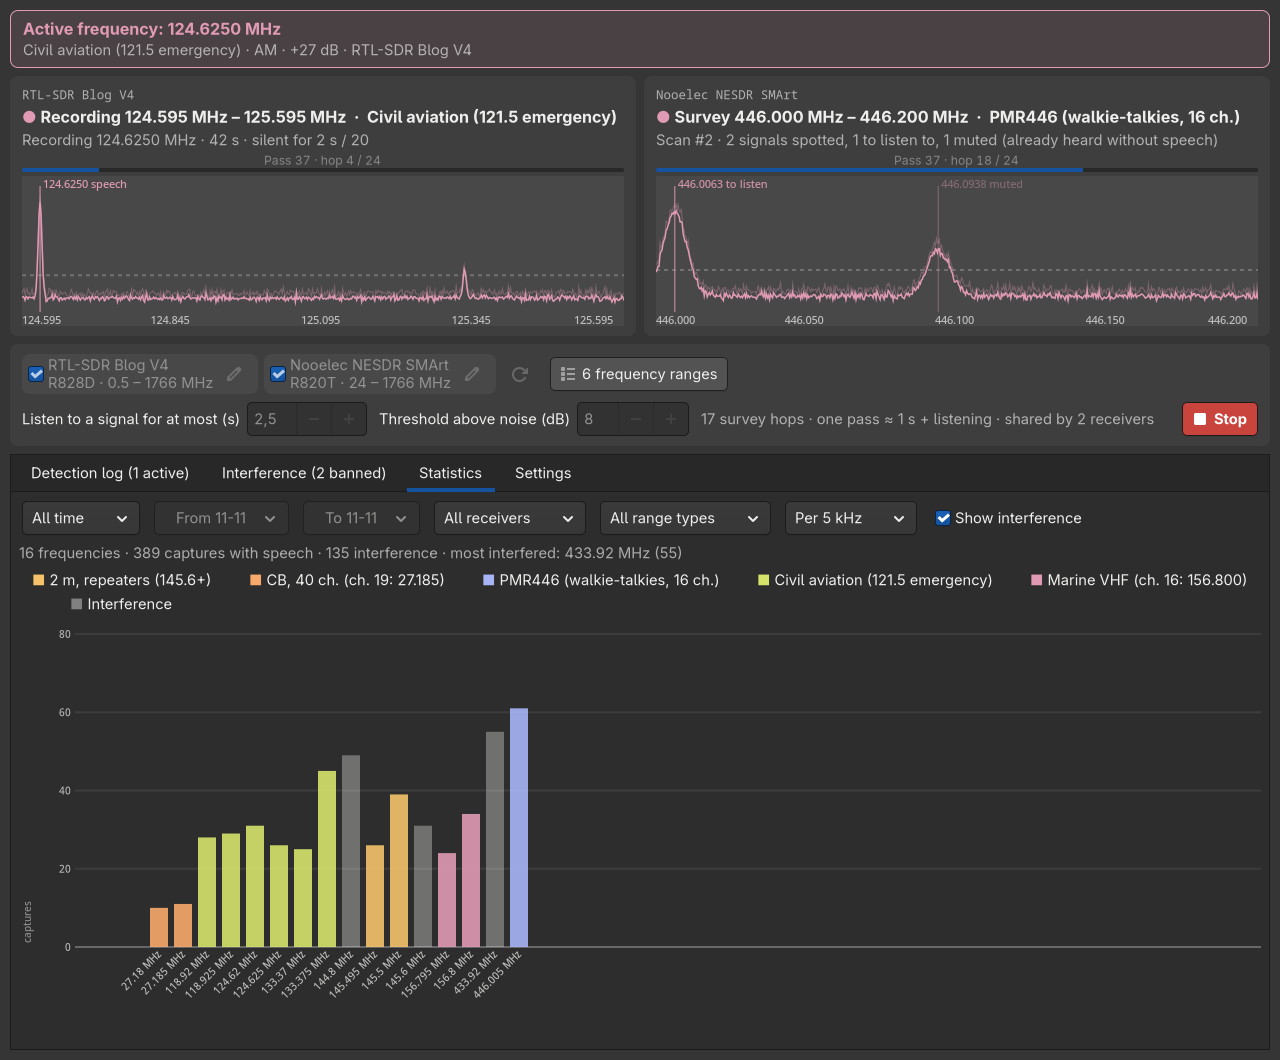
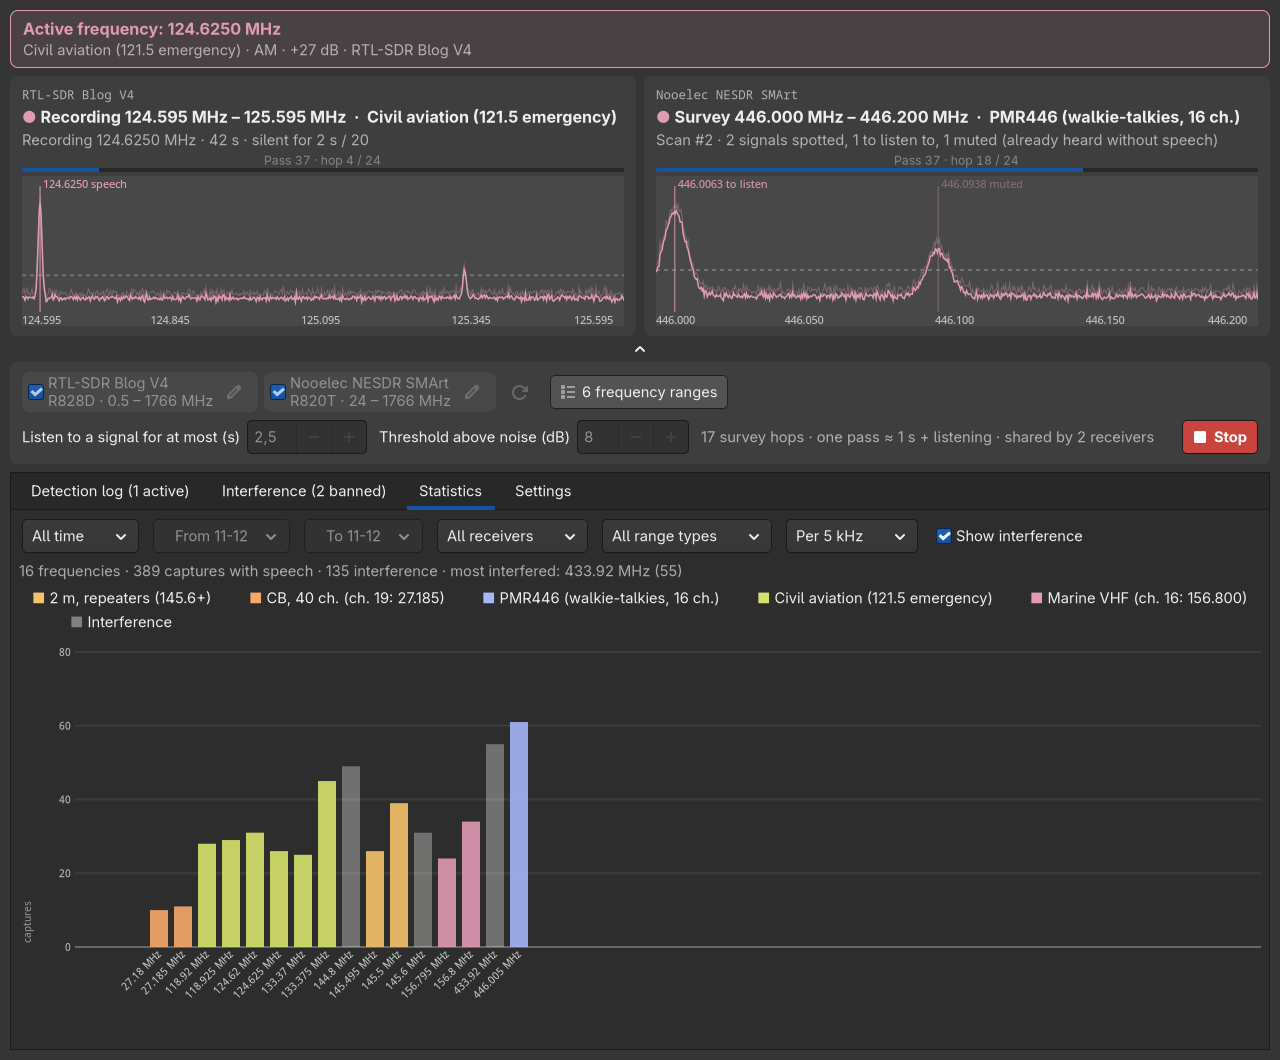
Smoother window on small screens: row-by-row lists, foldable spectra
- The journal and the Interference tab update only the rows that are new or
  changed (App.sync) instead of rebuilding every row. A full rebuild took
  ~0.15 s on a PC and seconds on a uConsole at every hit, every 15 s and every
  click on Play; it destroyed the button being clicked and GTK moved the focus
  to the first row, scrolling the list back to the top.
- Play / Stop buttons follow the player in place.
- An arrow under the scan cards folds the spectra away (kept in the settings).
- The statistics chart has a minimum height: a short window squeezed it to a
  few pixels.
- README (Usage), AGENT.md and the screenshots follow.

diff --git a/AGENT.md b/AGENT.md
@@ -58,6 +58,16 @@ detection, in en / fr / de / es. It ships standalone and inside two desktops by 
   Stop bar pinned below), so the window's minimum height stays ~100 px; GTK prints "Trying to measure
   GtkApplicationWindow for height of N, but it needs at least M" at every frame otherwise. A new
   fixed-height widget goes inside a scrolled column. Check: `win.measure(Gtk.Orientation.VERTICAL, -1)[0]`.
+  The other way round, a widget whose height comes from `vexpand` alone gets its *minimum* in that
+  scrolled column on a short screen: give it a `content_height` (the statistics chart, `STATS_H`; a
+  `ScrolledWindow` with `vscrollbar_policy=NEVER` ignores `min_content_height`). The spectra fold away
+  (`show_graphs`, the arrow under the cards, `settings["graphs_hidden"]`).
+- **Lists are updated row by row** (`App.sync`: key, signature, builder): only new or changed rows are
+  built. Rebuilding the whole journal took ~0.15 s here, seconds on a CM4, at every hit, every 15 s and
+  every click on Play; it destroyed the button under the pointer (lost clicks) and GTK moved the focus
+  to the first row, scrolling the list back to the top. A rebuilt row that had the focus hands it to its
+  replacement. The Play buttons follow the player in place (`update_play_buttons`), never through a
+  rebuild.
 
 ## How the scan works
 

diff --git a/README.md b/README.md
@@ -129,7 +129,8 @@ archangesdr --bands                      # the configured ranges
 ```
 
 In the window: tick your receivers and your ranges, then **Scan**. Everything else (language, region,
-theme, Join program, notifications, transcription) is in the **Settings** tab. `SIGUSR1` pauses the scan
+theme, Join program, notifications, transcription) is in the **Settings** tab. On a short screen, the
+arrow under the scan cards folds their spectra away (the choice is kept). `SIGUSR1` pauses the scan
 and frees the receivers, for a launcher that needs them: `pkill -USR1 -f /archangesdr`.
 
 A few settings live in a plain `KEY=value` file (`~/.config/archangesdr/archangesdr.conf` for the
